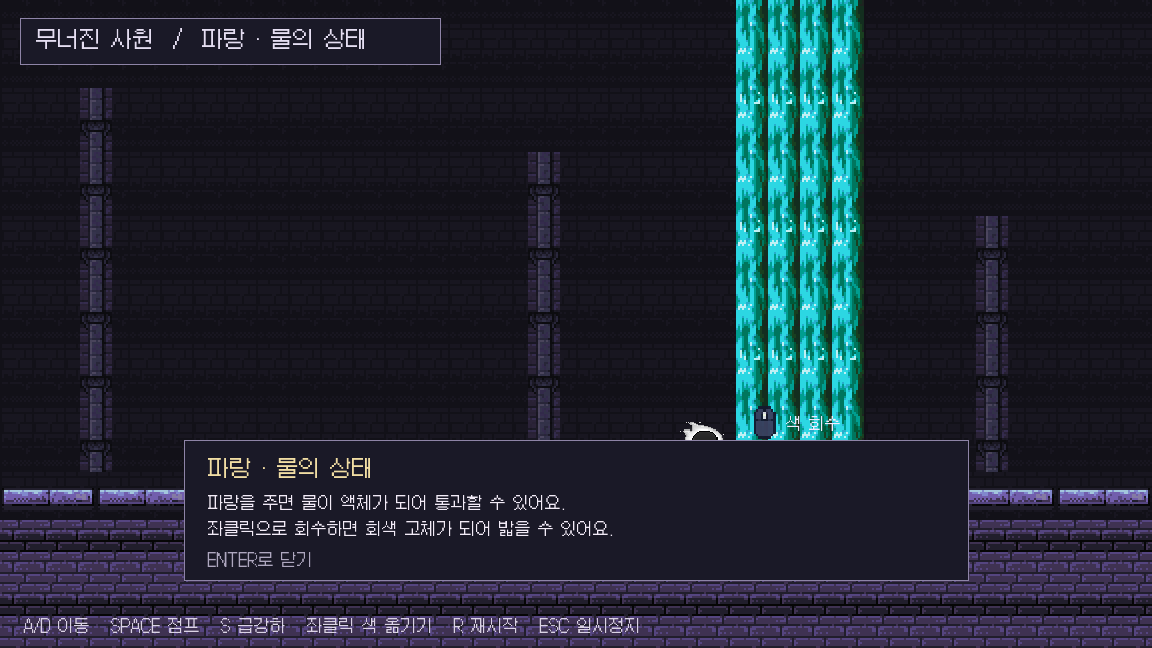
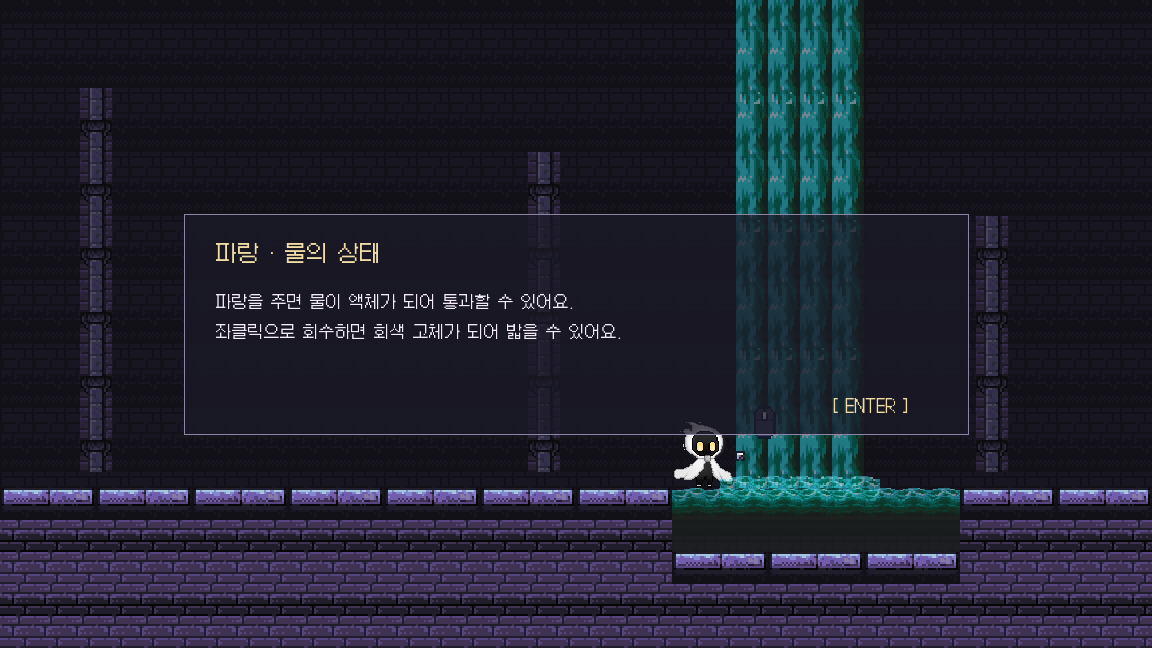
물웅덩이와 중앙 설명창 프리뷰 및 조작 안내 갱신

diff --git a/tools/preview_tutorial.py b/tools/preview_tutorial.py
@@ -56,6 +56,9 @@ def main():
         colors.interact_at(736, 200, level, player)
         tutorial.update(.1, level, player, colors)
         render(0).save(out / 'tutorial_blue.png')
+        tutorial.message = None
+        player.x, player.y = 800, 132
+        render(0).save(out / 'tutorial_water.png')
         frames = []
         for _ in range(16):
             bg.update(.08)
